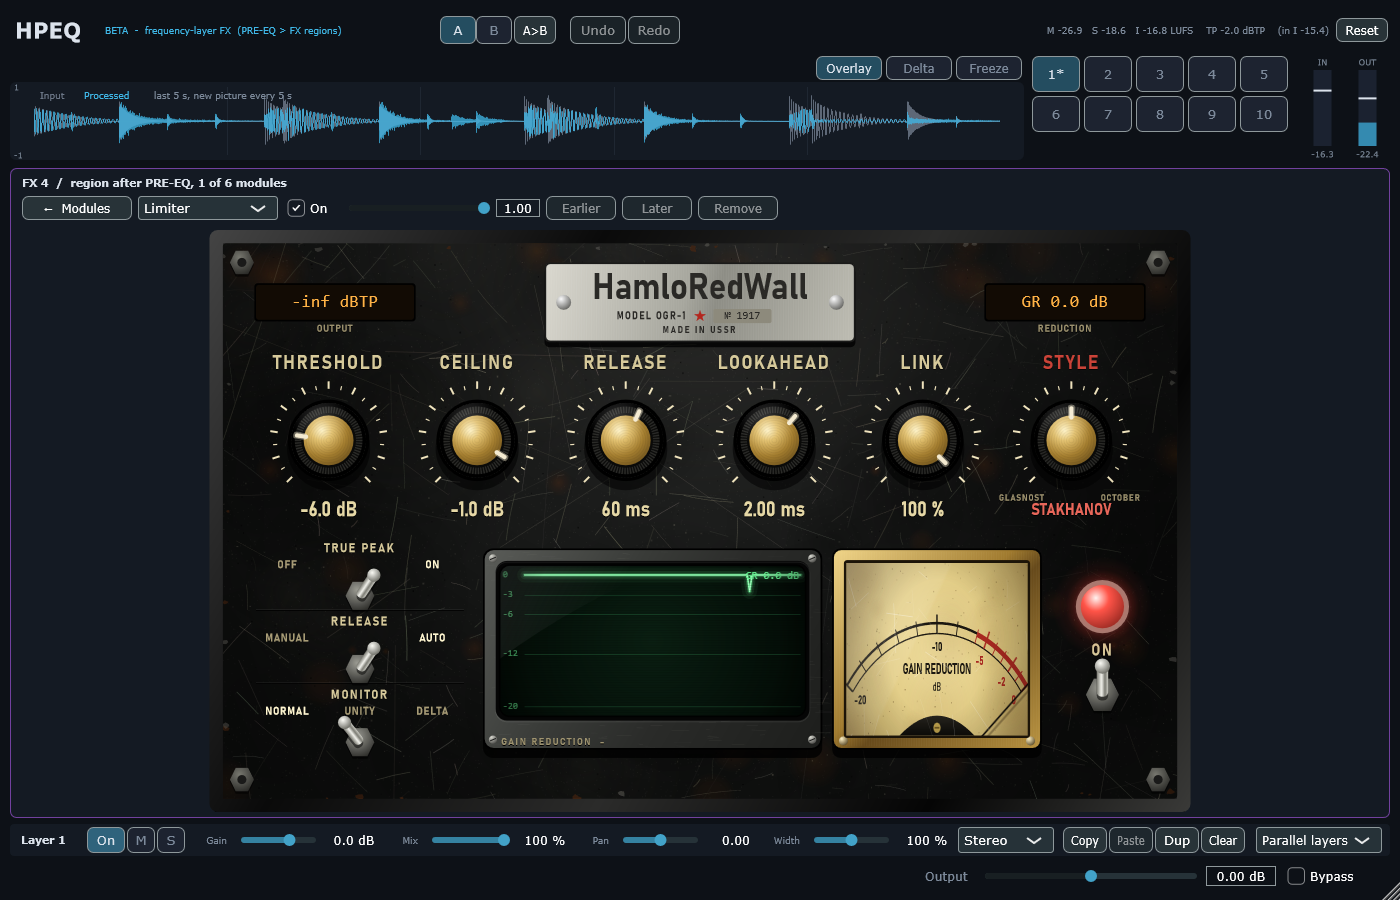
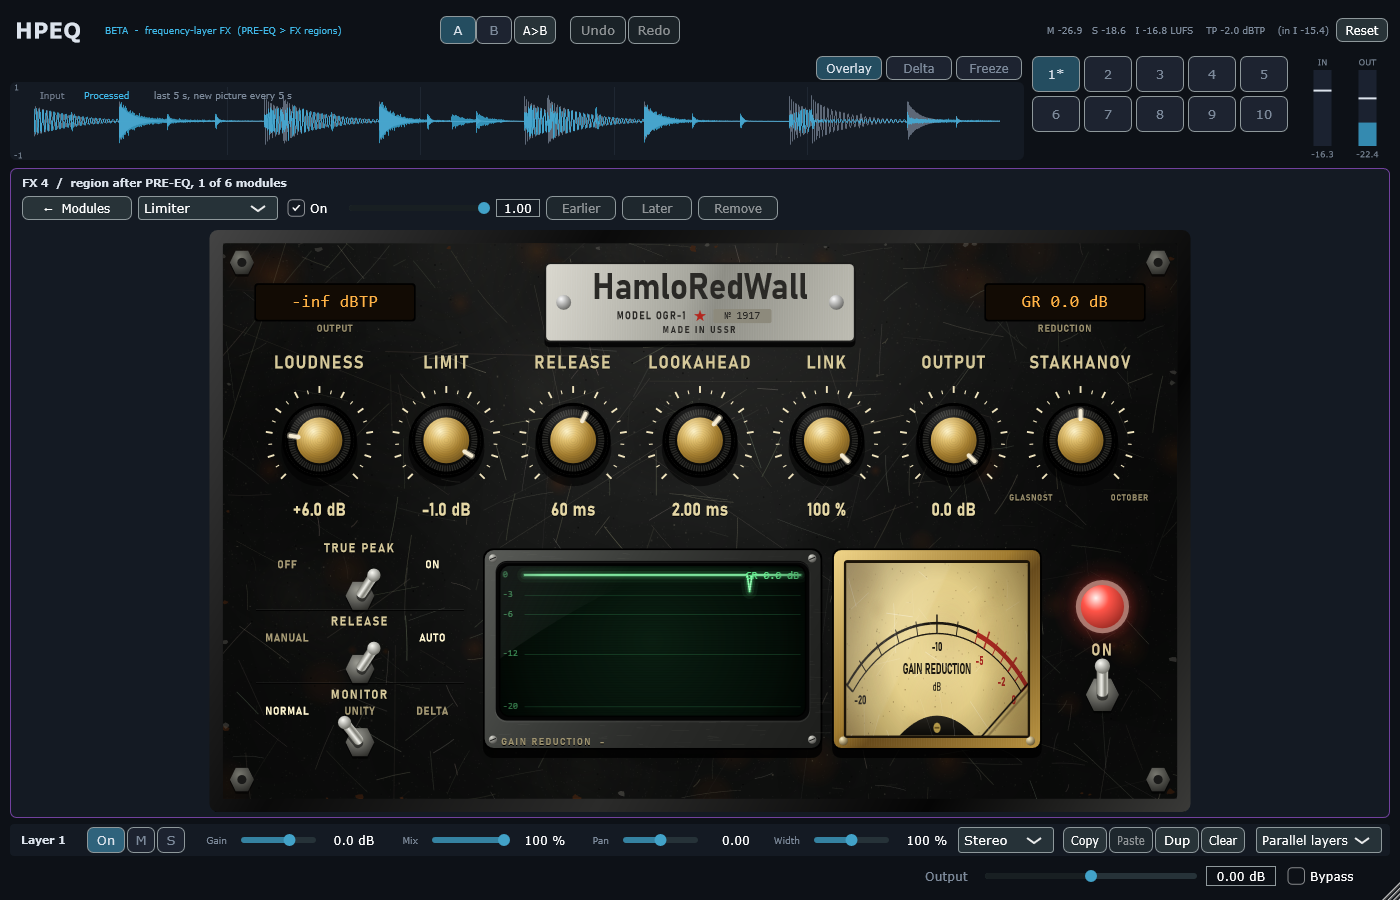
HamloRedWall: OUTPUT knob, LOUDNESS / LIMIT labels, style name as the title
Owner feedback on the page: no red labels (the chosen style is the knob's
title), a knob for the volume. OUTPUT applies 10^(O/20), O in -24..0 dB,
after the limiter: the output peak stays <= LIMIT + OUTPUT and loudness
moves by exactly O (tested to 4e-8 per sample, 0.000 LU). THRESHOLD is
labelled LOUDNESS (shown as the push in +dB), CEILING is LIMIT. Older
projects keep the M6 path. 1276/1276 Release and Debug.

diff --git a/Source/UI/HamloRedWallPanel.cpp b/Source/UI/HamloRedWallPanel.cpp
@@ -23,8 +23,9 @@ struct MapInfo
 };
 // THRESHOLD turns right to push harder (0 -> -30 dB); STYLE has three detents.
 constexpr std::array<MapInfo, HamloRedWallPanel::NumKnobs> kMaps { { { 0.0, -30.0, false }, { -20.0, 0.0, false }, { 1.0, 1000.0, true },
-                                                                      { 0.1, 10.0, true }, { 0.0, 1.0, false }, { 0.0, 2.0, false } } };
-constexpr std::array<const char*, HamloRedWallPanel::NumKnobs> kLabels { "Threshold", "Ceiling", "Release", "Lookahead", "Link", "Style" };
+                                                                      { 0.1, 10.0, true }, { 0.0, 1.0, false }, { -24.0, 0.0, false },
+                                                                      { 0.0, 2.0, false } } };
+constexpr std::array<const char*, HamloRedWallPanel::NumKnobs> kLabels { "Loudness", "Limit", "Release", "Lookahead", "Link", "Output", "Style" };
 const std::array<juce::StringArray, HamloRedWallPanel::NumSwitches> kSwitchOptions { juce::StringArray { "Off", "On" },
                                                                                      juce::StringArray { "Manual", "Auto" },
                                                                                      juce::StringArray { "Normal", "Unity", "Delta" } };
@@ -39,7 +40,7 @@ const juce::StringArray& HamloRedWallPanel::styleNames()
 
 const char* HamloRedWallPanel::keyFor(Param p)
 {
-    static constexpr const char* keys[] { "thresholdDb", "ceilingDb", "releaseMs", "lookaheadMs", "link", "style" };
+    static constexpr const char* keys[] { "thresholdDb", "ceilingDb", "releaseMs", "lookaheadMs", "link", "outputDb", "style" };
     return keys[p];
 }
 
@@ -51,7 +52,7 @@ const char* HamloRedWallPanel::keyFor(Switch s)
 
 double HamloRedWallPanel::defaultFor(Param p)
 {
-    static constexpr double d[] { 0.0, -1.0, 60.0, 2.0, 1.0, 0.0 }; // = defaultModule(Limiter)
+    static constexpr double d[] { 0.0, -1.0, 60.0, 2.0, 1.0, 0.0, 0.0 }; // = defaultModule(Limiter)
     return d[p];
 }
 
@@ -59,7 +60,8 @@ juce::String HamloRedWallPanel::format(Param p, double v)
 {
     switch (p)
     {
-        case Threshold: case Ceiling: return juce::String(v, 1) + " dB";
+        case Threshold: return (v < 0.0 ? "+" + juce::String(-v, 1) : juce::String(0.0, 1)) + " dB"; // the push
+        case Ceiling: case Output: return juce::String(v, 1) + " dB";
         case Release: return juce::String(juce::roundToInt(v)) + " ms";
         case Lookahead: return juce::String(v, 2) + " ms";
         case Link: return juce::String(juce::roundToInt(v * 100.0)) + " %";
@@ -71,8 +73,8 @@ juce::String HamloRedWallPanel::format(Param p, double v)
 
 HamloRedWallPanel::HamloRedWallPanel()
 {
-    for (int i = 0; i < NumKnobs; ++i)
-        centres[static_cast<size_t>(i)] = { 56.0f + static_cast<float>(i) * (174.67f + 4.0f) + 87.3f, kKnobY };
+    for (int i = 0; i < NumKnobs; ++i) // seven columns over the content width 56 .. 1124
+        centres[static_cast<size_t>(i)] = { 56.0f + (static_cast<float>(i) + 0.5f) * (1068.0f / NumKnobs), kKnobY };
     grMeter.bezel = { 751.0f, 385.0f, 248.0f, 238.0f };
     grMeter.min = -20.0f;
     grMeter.max = 0.0f;
@@ -153,9 +155,10 @@ void HamloRedWallPanel::renderStatic(juce::Graphics& g) const
     for (int i = 0; i < NumKnobs; ++i)
     {
         const auto c = centres[static_cast<size_t>(i)];
-        steel::engraved(g, juce::String(kLabels[static_cast<size_t>(i)]).toUpperCase(), { c.x - 87.0f, kLabelY - 17.0f, 174.0f, 34.0f }, 24.0f,
-                        i == Style ? juce::Colour(0xffd9483c) : steel::stencil, juce::Justification::centred, 0.1f);
-        steel::knobScale(g, c, 1.0f);
+        if (i != Style) // the STYLE knob is titled with the chosen style itself (paint)
+            steel::engraved(g, juce::String(kLabels[static_cast<size_t>(i)]).toUpperCase(), { c.x - 76.0f, kLabelY - 17.0f, 152.0f, 34.0f }, 22.0f,
+                            steel::stencil, juce::Justification::centred, 0.1f);
+        steel::knobScale(g, c, 0.92f);
     }
     // STYLE detents: the two end names beside the scale (the selected one is the red readout)
     for (int k : { 0, 2 })
@@ -163,7 +166,7 @@ void HamloRedWallPanel::renderStatic(juce::Graphics& g) const
         const float a = (-135.0f + 135.0f * static_cast<float>(k)) * kPi / 180.0f;
         const auto c = centres[Style];
         const juce::Point<float> p(c.x + std::sin(a) * 84.0f, c.y - std::cos(a) * 84.0f);
-        steel::engraved(g, styleNames()[k], { p.x - 50.0f, p.y + 2.0f, 100.0f, 16.0f }, 11.0f, steel::stencilDim);
+        steel::engraved(g, styleNames()[k], { p.x - 46.0f, p.y + 2.0f, 92.0f, 16.0f }, 10.5f, steel::stencilDim);
     }
     for (int i = 0; i < NumSwitches; ++i)
     {
@@ -220,13 +223,19 @@ void HamloRedWallPanel::paint(juce::Graphics& g)
         const auto c = centres[static_cast<size_t>(i)];
         const auto p = static_cast<Param>(i);
         float angle = (-135.0f + static_cast<float>(normFor(p)) * 270.0f) * kPi / 180.0f;
-        steel::brassKnob(g, c, angle, 1.0f);
-        const auto r = juce::Rectangle<float>(c.x - 80.0f, kReadoutY - 16.0f, 160.0f, 32.0f);
+        steel::brassKnob(g, c, angle, 0.92f);
         const auto text = format(p, values.knobs[static_cast<size_t>(i)]);
-        g.setFont(steel::stencilFont(p == Style ? 20.0f : 25.0f));
+        if (p == Style)
+        {
+            // owner: the chosen style is the knob's title, no separate readout
+            steel::engraved(g, text, { c.x - 76.0f, kLabelY - 17.0f, 152.0f, 34.0f }, 22.0f, steel::stencil, juce::Justification::centred, 0.1f);
+            continue;
+        }
+        const auto r = juce::Rectangle<float>(c.x - 74.0f, kReadoutY - 16.0f, 148.0f, 32.0f);
+        g.setFont(steel::stencilFont(23.0f));
         g.setColour(juce::Colours::black);
         g.drawText(text, r.translated(0.0f, 1.0f), juce::Justification::centred);
-        g.setColour(p == Style ? juce::Colour(0xffe9675a) : steel::stencil);
+        g.setColour(steel::stencil);
         g.drawText(text, r, juce::Justification::centred);
     }
     for (int sw = 0; sw < NumSwitches; ++sw)
@@ -284,7 +293,7 @@ void HamloRedWallPanel::settleMeters(float out, float reductionDb)
 int HamloRedWallPanel::knobAt(juce::Point<float> d) const
 {
     for (int i = 0; i < NumKnobs; ++i)
-        if (d.getDistanceFrom(centres[static_cast<size_t>(i)]) <= 60.0f)
+        if (d.getDistanceFrom(centres[static_cast<size_t>(i)]) <= 56.0f)
             return i;
     return -1;
 }
@@ -348,7 +357,7 @@ void HamloRedWallPanel::mouseDown(const juce::MouseEvent& e)
         return;
     }
     for (int i = 0; i < NumKnobs; ++i)
-        if (i != Style && juce::Rectangle<float>(centres[static_cast<size_t>(i)].x - 80.0f, kReadoutY - 16.0f, 160.0f, 32.0f).contains(d))
+        if (i != Style && juce::Rectangle<float>(centres[static_cast<size_t>(i)].x - 74.0f, kReadoutY - 16.0f, 148.0f, 32.0f).contains(d))
         {
             editReadout(static_cast<Param>(i));
             return;
@@ -408,7 +417,7 @@ void HamloRedWallPanel::editReadout(Param p)
     typing->setJustification(juce::Justification::centred);
     typing->setColour(juce::TextEditor::backgroundColourId, juce::Colour(0xff120b04));
     typing->setColour(juce::TextEditor::textColourId, juce::Colour(0xffffb347));
-    const double shown = p == Link ? values.knobs[Link] * 100.0 : values.knobs[static_cast<size_t>(p)];
+    const double shown = p == Link ? values.knobs[Link] * 100.0 : p == Threshold ? -values.knobs[Threshold] : values.knobs[static_cast<size_t>(p)];
     typing->setText(juce::String(shown, p == Lookahead ? 2 : 1), false);
     typing->selectAll();
     juce::Component::SafePointer<HamloRedWallPanel> self(this);
@@ -420,6 +429,8 @@ void HamloRedWallPanel::editReadout(Param p)
         double v = typing->getText().retainCharacters("-0123456789.").getDoubleValue();
         if (p == Link)
             v /= 100.0;
+        if (p == Threshold)
+            v = -std::abs(v); // typed as the push: "6" = +6 dB louder
         const auto& m = kMaps[static_cast<size_t>(p)];
         if (onKnobGestureStart)
             onKnobGestureStart(p);

diff --git a/Tests/Unit/LimiterPassTests.cpp b/Tests/Unit/LimiterPassTests.cpp
@@ -24,7 +24,7 @@ namespace
 constexpr double kFs = 48000.0;
 
 FxSlotParams lim(float ceilingDb, float releaseMs, float lookMs, float threshold = 0, float truePeak = 0, float autoRelease = 0, float style = 0,
-                 float link = 1, float monitor = 0)
+                 float link = 1, float monitor = 0, float outputDb = 0)
 {
     FxSlotParams s;
     s.active = true;
@@ -38,6 +38,7 @@ FxSlotParams lim(float ceilingDb, float releaseMs, float lookMs, float threshold
     s.values[slot::kLimStyle] = style;
     s.values[slot::kLimLink] = link;
     s.values[slot::kLimMonitor] = monitor;
+    s.values[slot::kLimOutputDb] = outputDb;
     return s;
 }
 
@@ -338,6 +339,29 @@ public:
                 allocations += probe.counts().allocations;
             }
             expectEquals(static_cast<int>(allocations), 0);
+        }
+
+        beginTest("13. OUTPUT (after the limiter): peak <= LIMIT + OUTPUT; output = the 0 dB output x 10^(O/20) (1e-6); loudness moves by O (+-0.01 LU)");
+        {
+            for (float o : { -0.5f, -6.0f, -18.0f })
+            {
+                const auto ref = run(hot, lim(-1, 60, 2, -6, 1, 1, 0));
+                const auto out = run(hot, lim(-1, 60, 2, -6, 1, 1, 0, 1, 0, o));
+                const double g = std::pow(10.0, o / 20.0);
+                double worst = 0.0;
+                for (int ch = 0; ch < 2; ++ch)
+                    for (int i = 0; i < hot.getNumSamples(); ++i)
+                        worst = std::max(worst, std::abs(out.getSample(ch, i) - ref.getSample(ch, i) * g));
+                const double peakOver = measureAll(out).peakDbfs - (-1.0 + o);
+                const double lufsShift = integratedLufs(out) - integratedLufs(ref);
+                logMessage("  output " + juce::String(o) + " dB: peak over LIMIT+OUTPUT " + juce::String(peakOver, 5) + " dB, loudness shift "
+                           + juce::String(lufsShift, 3) + " LU, worst sample error " + juce::String(worst));
+                expect(peakOver <= 1.0e-4);
+                expect(worst <= 1.0e-6);
+                expect(std::abs(lufsShift - o) <= 0.01);
+            }
+            expect(!LimiterProcessor::usesRedWall(lim(-1, 80, 2))); // output 0 dB: older projects keep the M6 path
+            expect(LimiterProcessor::usesRedWall(lim(-1, 80, 2, 0, 0, 0, 0, 1, 0, -3)));
         }
 
         beginTest("12. HamloRedWall page (real editor): fills the body; knobs and levers edit the project; an older limiter shows the M6 defaults");

diff --git a/Source/DSP/HamloRedWall.cpp b/Source/DSP/HamloRedWall.cpp
@@ -112,6 +112,7 @@ void RedWallCore::process(float* const* channels, int numChannels, int numSample
     const double releaseFast = coefficientFor(releaseMs * 0.25, sampleRate), releaseSlow = coefficientFor(releaseMs * 6.0, sampleRate);
     const double holdCoefficient = std::exp(-1.0 / (0.3 * sampleRate));
     const float unity = std::pow(10.0f, thresholdDb / 20.0f);
+    const float outputGain = std::pow(10.0f, std::clamp(p.values[slot::kLimOutputDb], -24.0f, 0.0f) / 20.0f);
     const int ring = le + 1, dequeCapacity = capacity + 1;
 
     float minGain = 1.0f, outPeak = 0.0f;
@@ -201,11 +202,13 @@ void RedWallCore::process(float* const* channels, int numChannels, int numSample
             const float delayed = s.audio[static_cast<size_t>((corePos + 1) % ring)];
             s.audio[static_cast<size_t>(corePos)] = v[static_cast<size_t>(c)];
             float y = delayed * gain;
-            outPeak = std::max(outPeak, std::abs(y));
             if (monitor == 1)
                 y *= unity;
             else if (monitor == 2)
                 y = delayed - y;
+            if (outputGain != 1.0f)
+                y *= outputGain;
+            outPeak = std::max(outPeak, std::abs(y));
             channels[c][i] = y;
         }
         corePos = (corePos + 1) % ring;

diff --git a/Source/DSP/LayerSnapshot.h b/Source/DSP/LayerSnapshot.h
@@ -70,8 +70,9 @@ constexpr int kGateThresholdDb = 0, kGateRatio = 1, kGateRangeDb = 2, kGateAttac
 // Band limiter (insert, look-ahead = latency)
 constexpr int kCeilingDb = 0, kLimiterReleaseMs = 1, kLookaheadMs = 2,
               // HamloRedWall (module pass 5): threshold dB; true peak 0/1; auto release 0/1;
-              // style 0 GLASNOST / 1 STAKHANOV / 2 OCTOBER; link 0..1 (absent = 1); monitor 0 normal / 1 unity / 2 delta
-              kLimThresholdDb = 3, kLimTruePeak = 4, kLimAutoRelease = 5, kLimStyle = 6, kLimLink = 7, kLimMonitor = 8;
+              // style 0 GLASNOST / 1 STAKHANOV / 2 OCTOBER; link 0..1 (absent = 1); monitor 0 normal / 1 unity / 2 delta;
+              // output dB (-24..0, after the limiter)
+              kLimThresholdDb = 3, kLimTruePeak = 4, kLimAutoRelease = 5, kLimStyle = 6, kLimLink = 7, kLimMonitor = 8, kLimOutputDb = 9;
 } // namespace slot
 
 // Host transport as seen by the layer for one host block (tempo-synced FX: Delay, Monsta).

diff --git a/Source/UI/HamloRedWallPanel.h b/Source/UI/HamloRedWallPanel.h
@@ -18,12 +18,13 @@ namespace hpeq::ui
 class HamloRedWallPanel final : public juce::Component, private juce::Timer
 {
 public:
-    enum Param { Threshold, Ceiling, Release, Lookahead, Link, Style, NumKnobs };
+    // Threshold is labelled LOUDNESS (push), Ceiling LIMIT; Output is the gain after the limiter.
+    enum Param { Threshold, Ceiling, Release, Lookahead, Link, Output, Style, NumKnobs };
     enum Switch { TruePeak, AutoRelease, Monitor, NumSwitches };
 
     struct Values
     {
-        std::array<double, NumKnobs> knobs { 0.0, -1.0, 60.0, 2.0, 1.0, 0.0 };
+        std::array<double, NumKnobs> knobs { 0.0, -1.0, 60.0, 2.0, 1.0, 0.0, 0.0 };
         std::array<int, NumSwitches> switches { 1, 1, 0 };
         bool on = true;
     };

diff --git a/Source/DSP/ProcessorsM6.cpp b/Source/DSP/ProcessorsM6.cpp
@@ -328,7 +328,8 @@ int LimiterProcessor::lookaheadSamples(const FxSlotParams& p, double sampleRate)
 bool LimiterProcessor::usesRedWall(const FxSlotParams& p) noexcept
 {
     return p.values[slot::kLimThresholdDb] != 0.0f || p.values[slot::kLimTruePeak] > 0.5f || p.values[slot::kLimAutoRelease] > 0.5f
-        || std::lround(p.values[slot::kLimStyle]) != 0 || p.values[slot::kLimLink] != 1.0f || std::lround(p.values[slot::kLimMonitor]) != 0;
+        || std::lround(p.values[slot::kLimStyle]) != 0 || p.values[slot::kLimLink] != 1.0f || std::lround(p.values[slot::kLimMonitor]) != 0
+        || p.values[slot::kLimOutputDb] != 0.0f;
 }
 
 void LimiterProcessor::prepare(double sampleRate)

diff --git a/Source/DSP/LayerSnapshot.cpp b/Source/DSP/LayerSnapshot.cpp
@@ -148,6 +148,7 @@ FxSlotParams makeSlot(const FxSlotState& state)
             slotParams.values[slot::kLimStyle] = juce::jlimit(0.0f, 2.0f, std::round(param(state.parameters, "style", 0.0f)));
             slotParams.values[slot::kLimLink] = juce::jlimit(0.0f, 1.0f, param(state.parameters, "link", 1.0f));
             slotParams.values[slot::kLimMonitor] = juce::jlimit(0.0f, 2.0f, std::round(param(state.parameters, "monitor", 0.0f)));
+            slotParams.values[slot::kLimOutputDb] = juce::jlimit(-24.0f, 0.0f, param(state.parameters, "outputDb", 0.0f));
             break;
     }
     return slotParams;

diff --git a/Source/DSP/HamloRedWall.h b/Source/DSP/HamloRedWall.h
@@ -24,6 +24,8 @@ namespace hpeq::dsp
 //   between 0.25 x and 6 x the release by a 0.3 s hold follower of [reduction > 1 dB]; STAKHANOV: release
 //   halved), moving average over Le, audio delayed by Le  ->  y_c (sample peak <= ceiling)
 //   MONITOR: UNITY y * 10^(T/20); DELTA (delayed core input) - y
+//   OUTPUT O (-24 .. 0 dB): out = (monitored y) * 10^(O/20), last. With O <= 0 the output sample peak is
+//   <= ceiling * 10^(O/20), i.e. LIMIT + OUTPUT in dB, and the loudness moves by exactly O dB.
 // Latency = L (+ 8 with TRUE PEAK).
 class RedWallCore
 {

diff --git a/Source/Core/FxProjectState.cpp b/Source/Core/FxProjectState.cpp
@@ -221,6 +221,7 @@ FxSlotState defaultModule(FxType type)
         m.parameters.set("style", 0);
         m.parameters.set("link", 1);
         m.parameters.set("monitor", 0);
+        m.parameters.set("outputDb", 0);
     }
     if (type == FxType::Compressor)
     {

diff --git a/docs/fx-addon/reports/LIMITER_PASS_REPORT.md b/docs/fx-addon/reports/LIMITER_PASS_REPORT.md
@@ -30,20 +30,25 @@ runs, bit-exact):
 - A limiter added from the UI starts with true peak and auto release on, ceiling −1 dB, release 60 ms.
 
 **Page (Black Steel):** nameplate "HamloRedWall · MODEL OGR-1 · № 1917", amber LCDs (output peak in dB or
-dBTP, gain reduction), brass knobs THRESHOLD, CEILING, RELEASE, LOOKAHEAD, LINK, STYLE (three detents, the
-choice in red), levers TRUE PEAK / RELEASE MANUAL–AUTO / MONITOR, green CRT with the gain-reduction history
+dBTP, gain reduction), brass knobs **LOUDNESS** (the push, shown as +dB), **LIMIT** (the ceiling), RELEASE,
+LOOKAHEAD, LINK, **OUTPUT**, and the style knob titled with the chosen style (GLASNOST / STAKHANOV /
+OCTOBER; owner: no red labels, the style name on top), levers TRUE PEAK / RELEASE MANUAL–AUTO / MONITOR, green CRT with the gain-reduction history
 of the last 4 s, GAIN REDUCTION needle meter, ON lamp and toggle.
 
 ![HamloRedWall](limiter_pass/screenshots/hpeq_hamloredwall_page.png)
 
 ![MIX chain of a layer](limiter_pass/screenshots/hpeq_mix_chain_grid.png)
 
+**OUTPUT** (owner, after the first page: "a knob for the volume"): `out = y · 10^(O/20)`, O ∈ [−24, 0] dB,
+applied last. Since |y| ≤ c, the output peak is ≤ LIMIT + OUTPUT and every level measure moves by exactly
+O; O > 0 is not offered (it would break the ceiling guarantee; louder = LOUDNESS).
+
 ## 3. Commands and exit codes
 
 ```bash
 cmake --build --preset release                     # 0, no warnings
-build/Release/HPEQ_Tests.exe                       # 0 — 1265 passed, 0 failed
-build/Debug/HPEQ_Tests.exe                         # 0 — 1265 passed, 0 failed (CRT hook: malloc + new, 0 audio-thread allocations)
+build/Release/HPEQ_Tests.exe                       # 0 — 1276 passed, 0 failed
+build/Debug/HPEQ_Tests.exe                         # 0 — 1276 passed, 0 failed (CRT hook: malloc + new, 0 audio-thread allocations)
 HPEQ_Lab bench --reps 2 --blocks 1000              # reports/limiter_pass/bench.json
 HPEQ_Lab t11 + HPEQ_HostSmoke --t11 (random projects now with MIX chains)   # 0 — 20/20
 HPEQ_Lab ui                                        # screenshots
@@ -64,6 +69,7 @@ HPEQ_Lab ui                                        # screenshots
 | 9 | MONITOR: UNITY level change ±0.5 dB; DELTA = delayed input − output | 0.000 dB; < 1e−5 |
 | 10 | Latency reported = measured (TP on/off, styles); blocks 1 / 64 / 512 identical; 0 allocations | pass |
 | 11 | MIX chain: compressor on the MIX chain = the compressor on the input (≤ −120 dB); layer latency = nodes + mix; state round trip; "+" menu lists 9 shapes + 10 + 10 modules | **−141.3 dB**; 104 + 104; pass; pass |
+| 13 | OUTPUT −0.5 / −6 / −18 dB: peak ≤ LIMIT + OUTPUT; output = 0 dB output × 10^(O/20) (≤ 1e−6); loudness shift = O ± 0.01 LU | peak over **0.00000 dB**; worst error 4.2e−8; shifts −0.500 / −6.000 / −18.000 LU |
 | 12 | Page in the real editor: fills the body; knobs / levers edit the project; an older limiter shows the M6 defaults | pass |
 | — | T11 through the VST3 binary (random projects with MIX chains) | 237/237 states and latencies, 57/57 bit-exact renders and re-opens |
 

diff --git a/docs/fx-addon/LIMITER_DESIGN.md b/docs/fx-addon/LIMITER_DESIGN.md
@@ -57,6 +57,10 @@ being output, so the output sample peak never exceeds c.
 - LINK `λ`: per-channel targets `t_ch`; `t'_ch = λ · min(t_L, t_R) + (1 − λ) · t_ch`; λ = 1 is the M6 linked law.
 - MONITOR UNITY: output · 10^(T/20) (back to the input level); DELTA: `D_L(x') − y` (what the limiter
   removed, at the pushed level).
+- OUTPUT O (owner, after the first page): `out = y · 10^(O/20)`, O ∈ [−24, 0] dB, applied last. Since
+  |y| ≤ c, |out| ≤ c · 10^(O/20): the output peak is at most LIMIT + OUTPUT (dB), and every level
+  measure (peak, RMS, LUFS) moves by exactly O. O > 0 is not offered: it would break the ceiling
+  guarantee (louder = LOUDNESS). On the page THRESHOLD is labelled **LOUDNESS** and CEILING **LIMIT**.
 
 ## 4. Page (HamloRedWall, Black Steel)
 
